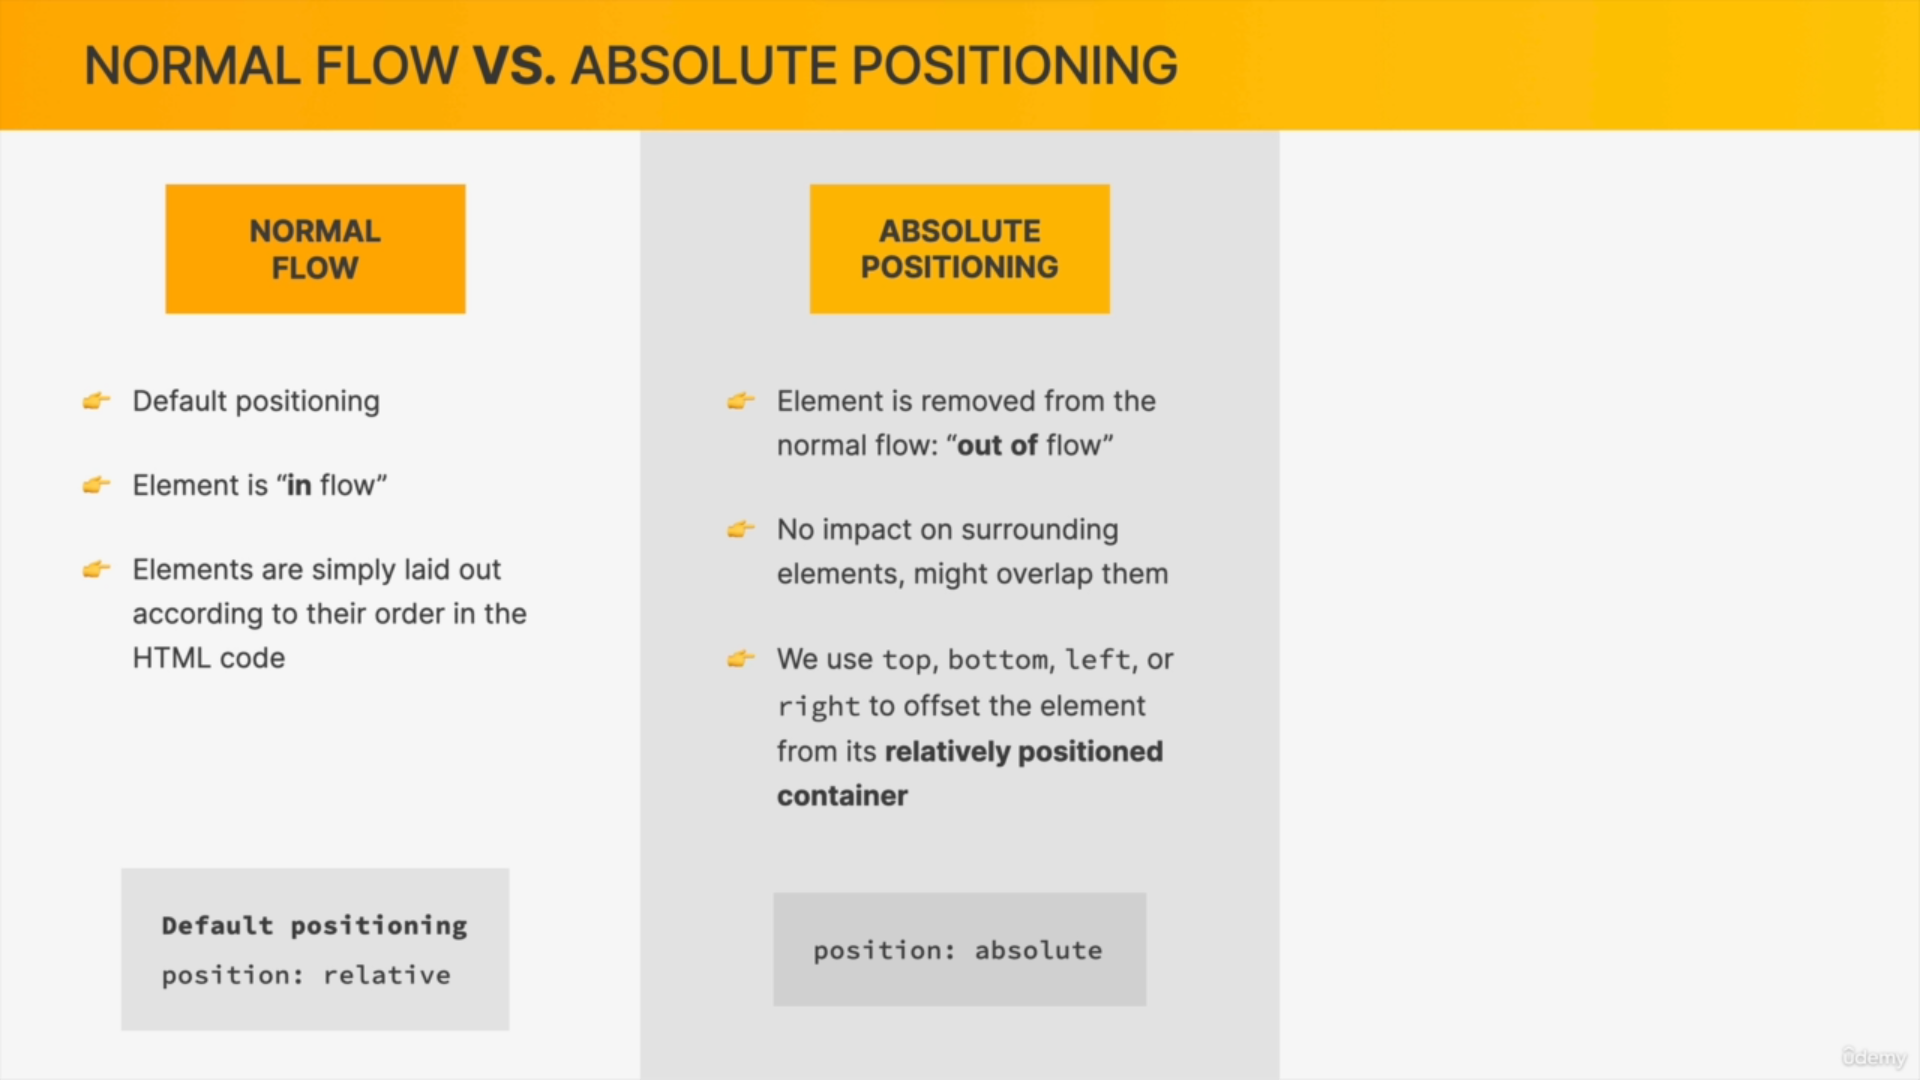
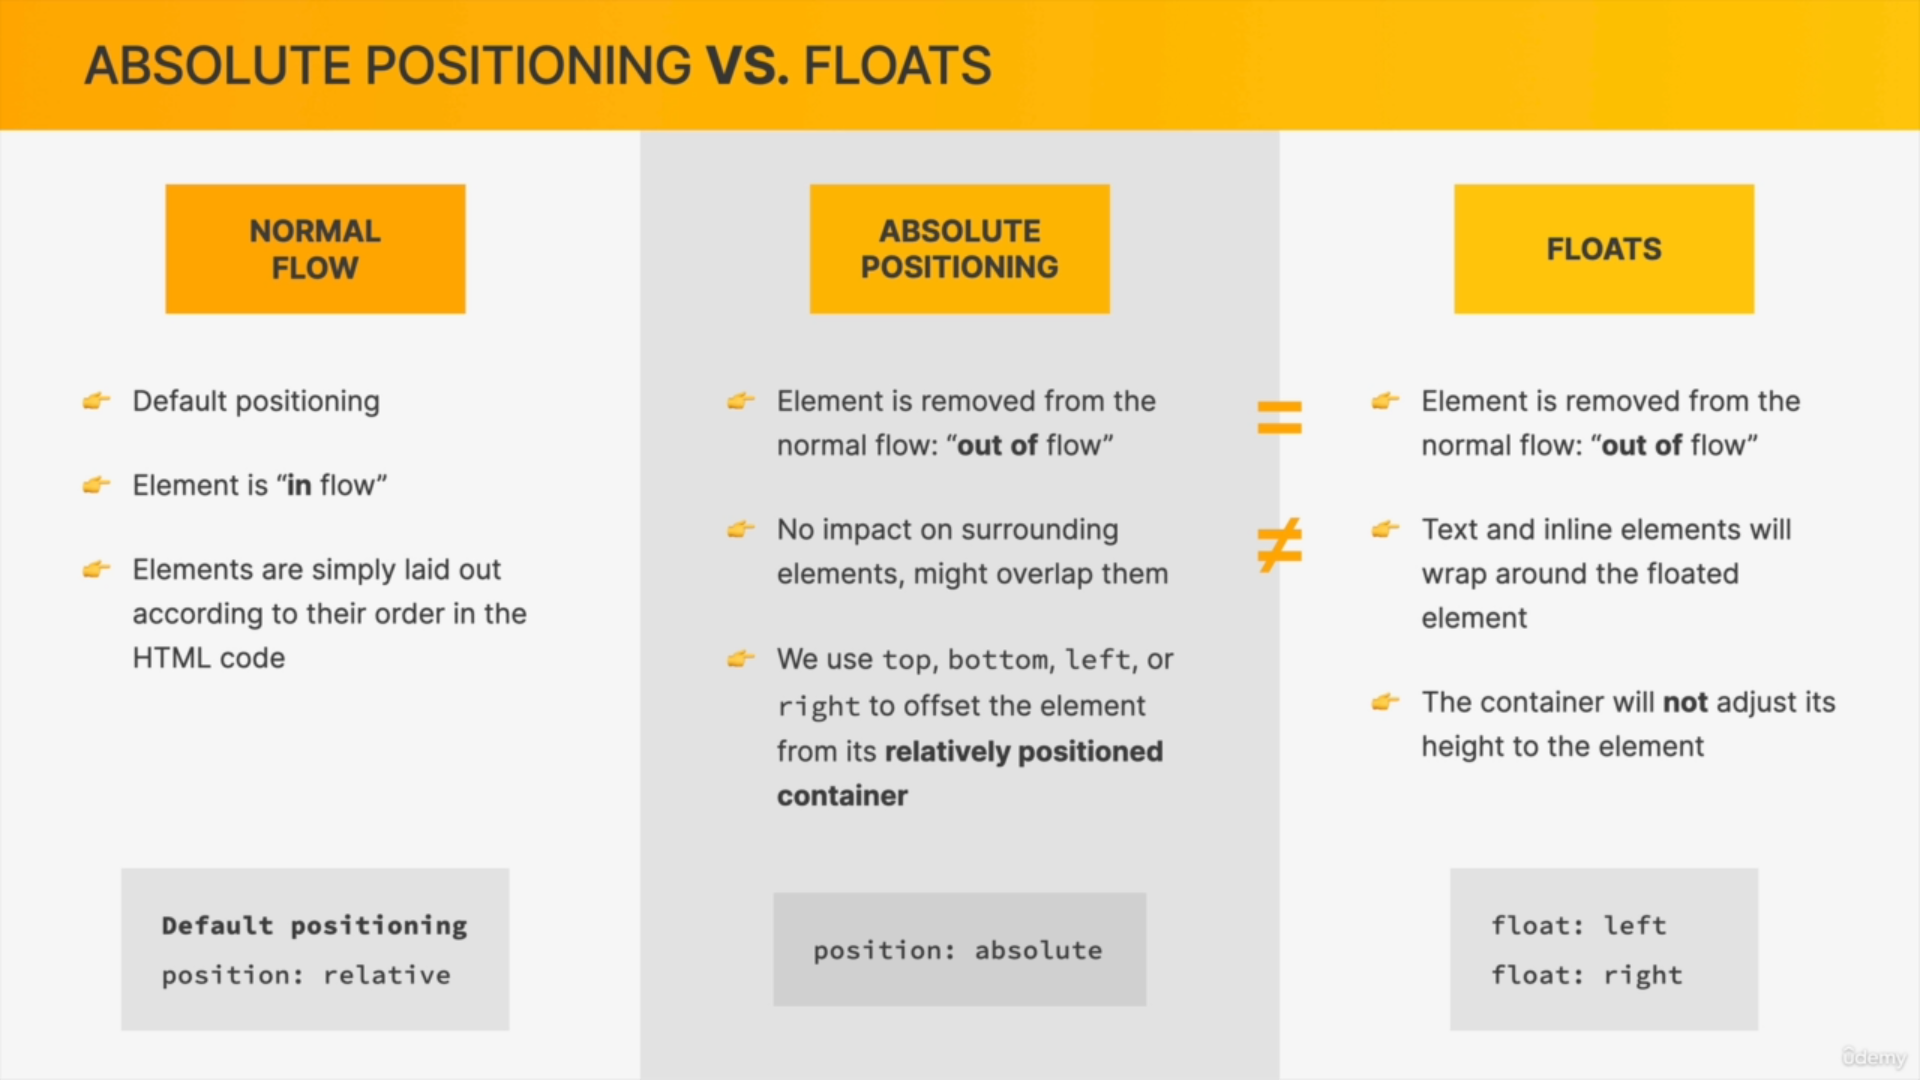
completed flex-box

diff --git a/01 HTML-CSS/_Documenttation_html_css.md b/01 HTML-CSS/_Documenttation_html_css.md
@@ -76,7 +76,7 @@ h1 {
 | 5     | Multiple Selectors | h1, h2, h3, p, li {  color: green;}                                                      |
 | 6     | Adjacent Selectors | h1 + p (it will select all only those p elements which are immediately after h elements) |
 | 7     | Pseudo-Classes     | : (colon symbol)                                                                         |
-| 8     | Pseudo Element     | :: (double colon)                                                                        |
+| 8     | Pseudo Element     | :: (double colon) ,   it will create new element after or before the selected element    |
 
 
 1. **Adjacent Selector**
@@ -139,7 +139,7 @@ article li:hover {
 }
 ```
 
-3. **Pseudo Elements**
+3. **Pseudo Elements :** these are use to create new element also before or after the selected element
 
 1. ::first-letter
 2. ::first-line
@@ -223,7 +223,7 @@ body {
 ```
 ---
 
-## 📘Box-Model
+## 📘Box-Model and Box-sizing
 
 ![BoxModel](./images/box-model.png)
 
@@ -242,10 +242,14 @@ body {
     /* removing margin from view port/ Browser Window*/
     margin: 0;
 
-
+    /* to reset all width (best one)*/
     box-sizing: border-box;
 }
 ```
+
+![boxSizing](./images/box-model-with-border-box.png)
+
+
 **⚠ Note :** All above properties are placed in **multi-selector** instead of body because it will apply on each and every element otherwise it will apply to body only, as we know only **text-properties** are inheritance.
 
 
@@ -337,13 +341,82 @@ body {
 4. Fixed : Position relative to the **viewport**
 5. Sticky : Positioned based on scroll position
 
-![positions](./images/positions.png)
 
 ![PositionedValues](./images/positioned-example.png)
 
-⚠ **Note :** Never use these positions in real world for complex designs
+![positions](./images/positions.png)
 
 ---
+
+## 📘Page-Layouts
+
+![layout](./images/layout.png)
+
+1. **Float Concept** : by using float the element will out of flow from normal flow just like absolute position concept
+
+![FloatExample](./images/float.png)
+
+Solution For this example : by clear float from both the sides
+
+```html
+<!-- Example 1 -->
+ <style>
+    header {
+        background-color: red;
+        padding: 20px;
+    }
+
+    .heading-primary {
+        float: left;
+    }
+
+    .heading-secondary {
+        float: right;
+    }
+
+    /* This is use to fix the problem of flow out */
+    .clear {
+        clear: both;
+    }
+</style>
+
+<header>
+    <h2 class="heading-primary">Heading Primary</h2>
+    <h2 class="heading-secondary">Heading Secondary</h2>
+    
+    <!-- We have to use this all the time to fix the out of flow issue-->
+    <div class="clear"></div>
+</header>
+
+
+<!-- Example 2 -->
+ <style>
+    header {
+        background-color: red;
+        padding: 20px;
+    }
+
+    .heading-primary {
+        float: left;
+    }
+
+    .heading-secondary {
+        float: right;
+    }
+
+    .clearFix::after {
+        content: "";
+        clear: both;
+        display: block;
+    }
+</style>
+
+<header class="clearFix">
+    <h2 class="heading-primary ">Heading Primary</h2>
+    <h2 class="heading-secondary">Heading Secondary</h2>
+</header>
+```
+
 
 ## 📘Max-width & Min-Width
 
@@ -351,7 +424,7 @@ body {
 
 Example :
 * When we use **width** in **px** then it will fixed our image size hence responsiveness will not work
-* When we use **width** in **%** then it will become responsive but in this case we cannot set fixed size of image upto a particular dimension
+* When we use **width** in **%** then it will become responsive but in this case we cannot set fixed size of image up to a particular dimension
 
 ```html
 <!DOCTYPE html>
